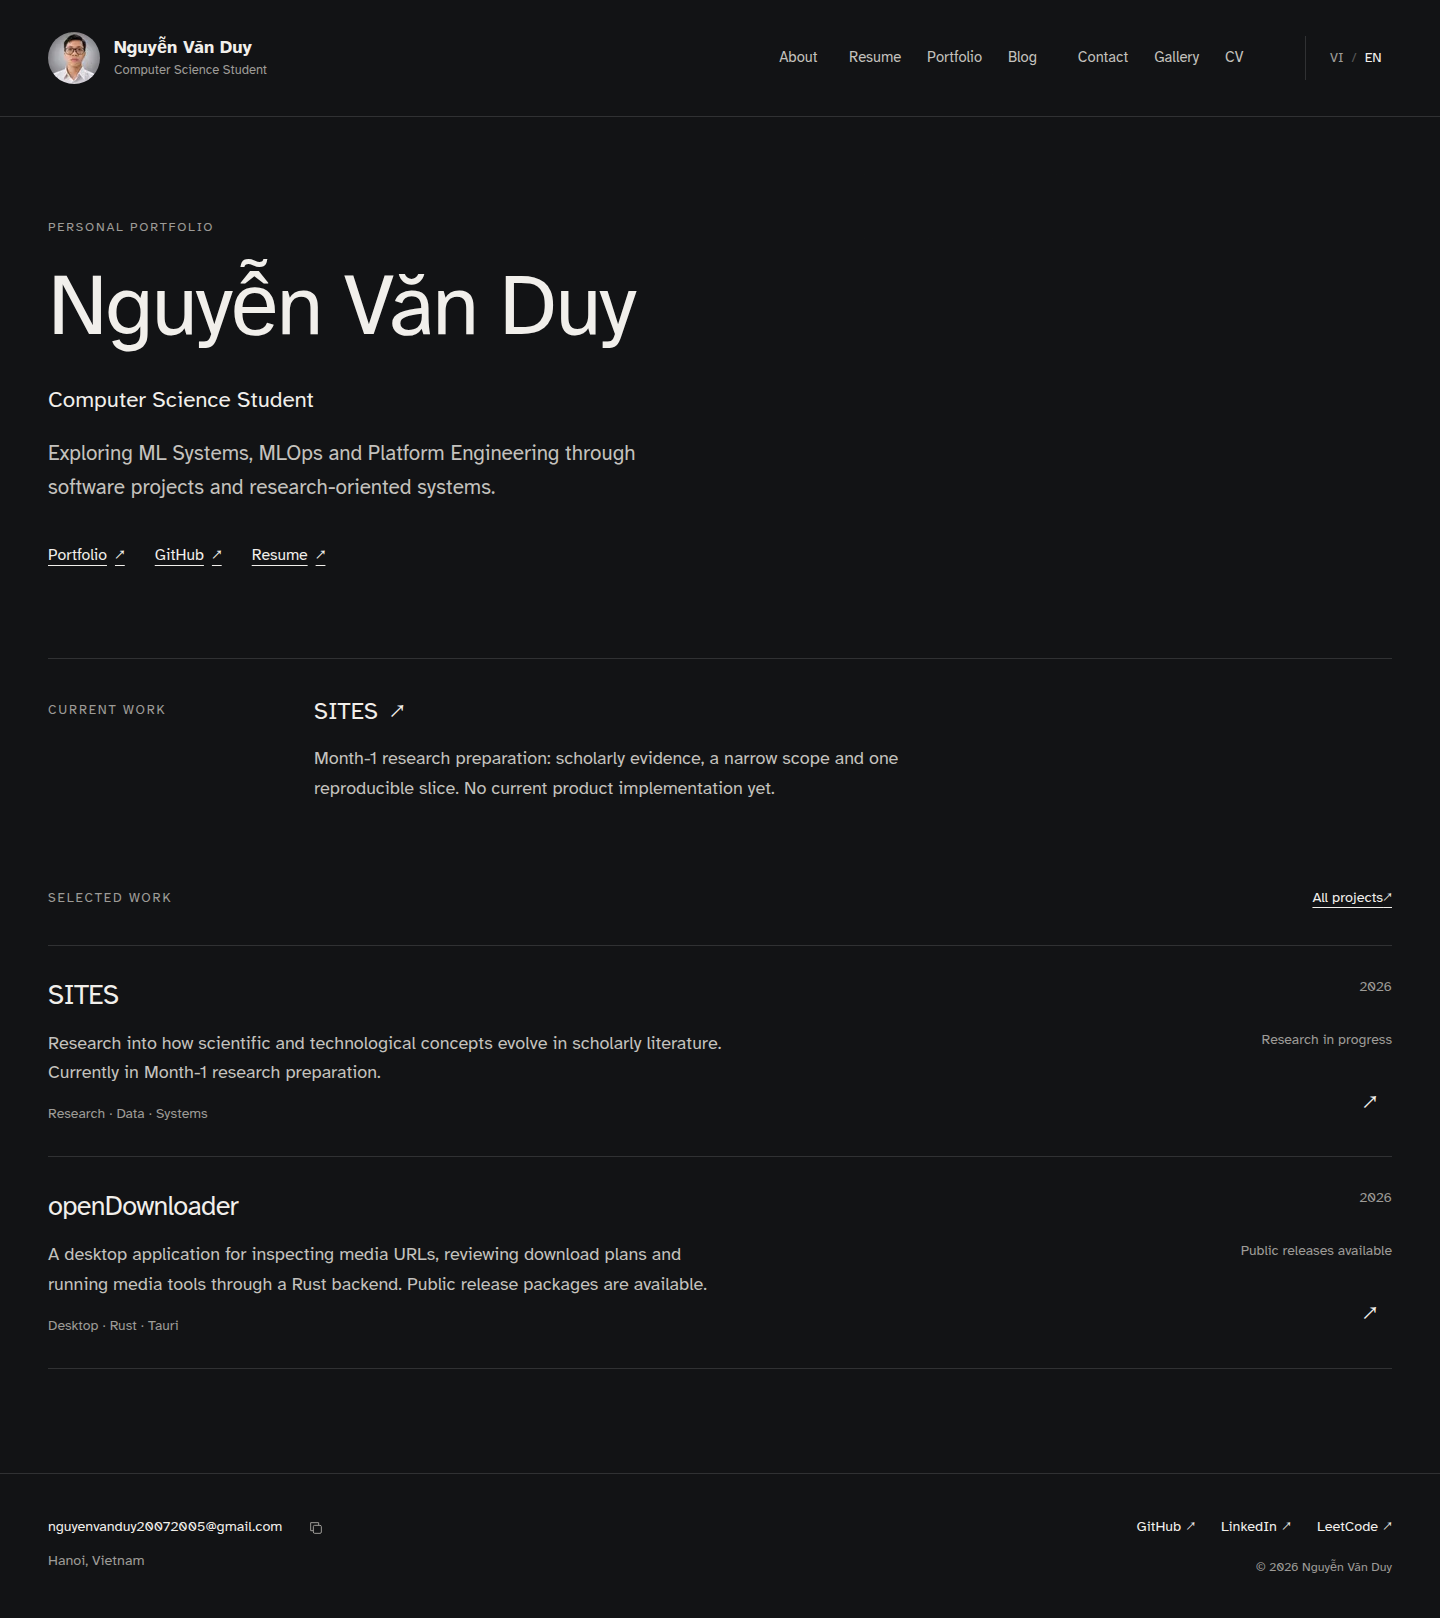
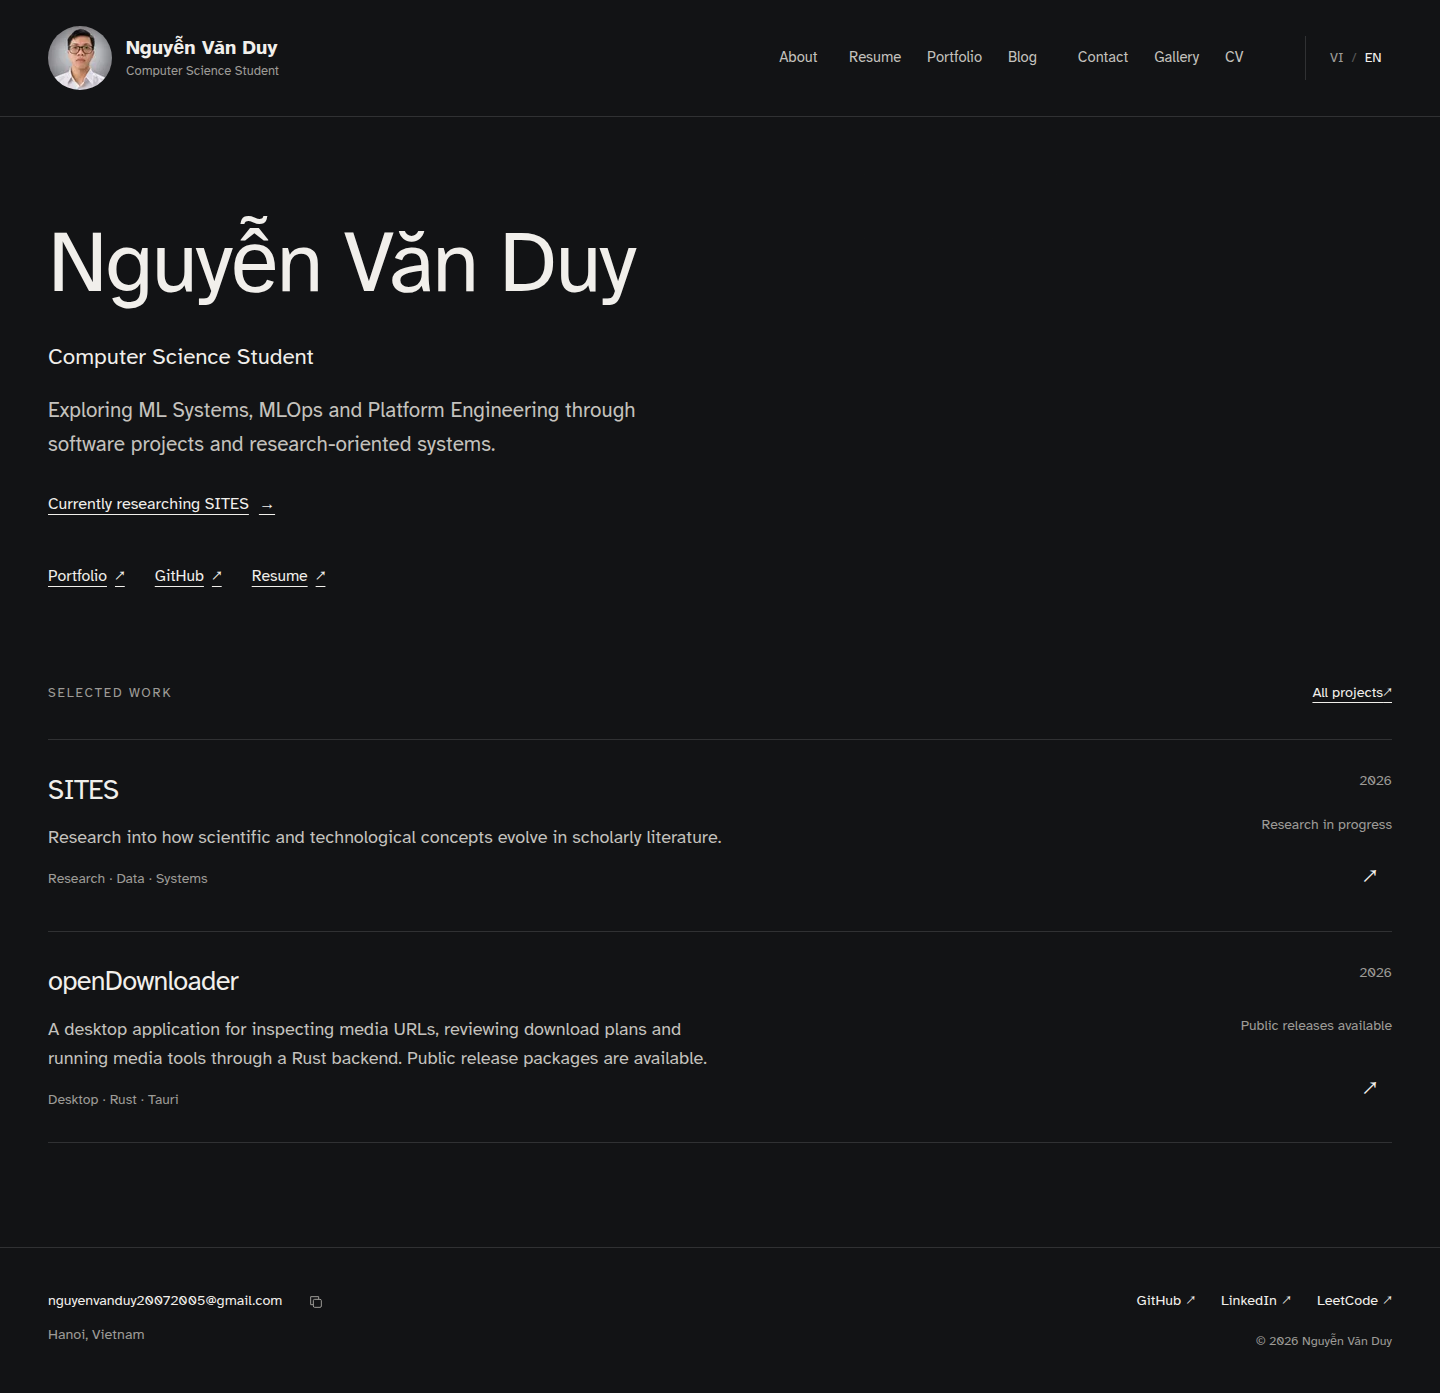
fix: polish editorial portfolio and enforce publication checks in CI

diff --git a/src/styles/global.css b/src/styles/global.css
@@ -9,6 +9,8 @@
 }
 *, *::before, *::after { box-sizing: border-box; }
 [hidden] { display: none !important; }
+/* Locale is selected in the head before body copy can paint, including without JS. */
+html[lang="vi"] [data-copy-lang="en"], html[lang="en"] [data-copy-lang="vi"] { display: none !important; }
 html { scroll-behavior: smooth; scroll-padding-top: 9rem; }
 body { margin: 0; min-height: 100vh; display: flex; flex-direction: column; background: var(--bg); color: var(--body); line-height: 1.65; }
 body::before { content: ''; position: absolute; top: 110px; right: 0; width: min(40vw, 600px); height: 450px; background-image: linear-gradient(#ffffff03 1px, transparent 1px), linear-gradient(90deg, #ffffff03 1px, transparent 1px); background-size: 64px 64px; mask-image: linear-gradient(150deg, #0006, transparent 75%); pointer-events: none; z-index: -1; }
@@ -22,9 +24,9 @@ button { color: var(--text); cursor: pointer; }
 .site-header { border-bottom: 1px solid var(--line); background: var(--bg); position: sticky; top: 0; z-index: 20; }
 .header-inner { display: grid; grid-template-columns: auto 1fr auto; align-items: center; gap: 36px; min-height: 116px; }
 .identity { display: flex; align-items: center; gap: 14px; text-decoration: none; min-width: 0; }
-.avatar { width: 52px; height: 52px; object-fit: cover; object-position: center top; border-radius: 50%; flex: 0 0 auto; }
+.avatar { width: 64px; height: 64px; object-fit: cover; object-position: center top; border-radius: 50%; flex: 0 0 auto; }
 .identity-copy { display: grid; line-height: 1.4; }
-.identity-copy strong { font-size: 1rem; font-weight: 700; color: var(--text); }
+.identity-copy strong { font-size: 1.1rem; font-weight: 700; color: var(--text); }
 .identity-copy > span { font-size: .72rem; color: var(--muted); }
 .primary-nav { grid-column: 2; grid-row: 1; display: flex; justify-content: flex-end; align-items: center; gap: clamp(16px, 1.8vw, 30px); }
 .primary-nav a { display: flex; align-items: center; min-height: 44px; min-width: 44px; text-decoration: none; font-size: .82rem; white-space: nowrap; position: relative; color: var(--body); }

diff --git a/src/data/site.ts b/src/data/site.ts
@@ -1,3 +1,4 @@
+import { publicProfile } from './profile.js';
 import profilePhoto from '../assets/selfie/toi.png';
 import gallery01 from '../assets/img/IMG_20240927_082039_070.jpg';
 import gallery02 from '../assets/img/IMG_20241111_143050_109.jpg';
@@ -7,8 +8,7 @@ import gallery05 from '../assets/img/IMG_20241203_093918_015.jpg';
 import gallery06 from '../assets/img/IMG_20241203_103715_582.jpg';
 
 export const profile = {
-  name: 'Nguyễn Văn Duy', role: 'Computer Science Student',
-  email: 'nguyenvanduy20072005@gmail.com',
+  ...publicProfile,
   location: { vi: 'Hà Nội, Việt Nam', en: 'Hanoi, Vietnam' }, photo: profilePhoto,
 };
 export const navItems = [

diff --git a/src/data/profile.js b/src/data/profile.js
@@ -1,0 +1,6 @@
+// Owner-confirmed public identity, shared by pages and validation.
+export const publicProfile = {
+  name: 'Nguyễn Văn Duy',
+  role: 'Computer Science Student',
+  email: 'nguyenvanduy20072005@gmail.com',
+};

diff --git a/docs/design/DECISIONS.md b/docs/design/DECISIONS.md
@@ -23,13 +23,13 @@
   Their existing detail URLs receive a factual archive notice with no stale
   capability claims. Withdrawn generated article URLs receive a noindex notice;
   neither notices nor removed writing appear in RSS/sitemap.
-- No bilingual URL migration: Vietnamese static HTML plus one storage-backed
-  locale controller updates visible copy, document language and metadata.
-  Canonical URLs do not change. No framework/runtime dependency is added.
-- PDF CV remains byte-for-byte unchanged. It currently states graduation 2027;
-  the newer owner brief says expected 2028. The HTML therefore records the
-  supported start date as 2023–present, without asserting a disputed graduation
-  year. The owner can confirm the expected year separately; the PDF is not edited.
+- Owner confirmed Vietnamese static default during review. No bilingual URL
+  migration: a small head bootstrap restores the saved locale and metadata
+  before body copy paints; CSS chooses the visible language immediately. One
+  storage-backed controller handles subsequent switches and utilities.
+- Owner confirmed expected graduation 2028. HTML Resume states this explicitly.
+  The owner will update the PDF later; both existing PDF copies remain unchanged
+  and currently state 2027. PDF/HTML agreement remains a pre-release owner task.
 - A temporary publication test using shared node_modules exposed Astro's empty
   glob behavior: the loader returns without clearing stored entries. The new
   writing loader explicitly clears an empty collection, and cacheDir is local to
@@ -40,3 +40,18 @@
   remaining assets because CV preservation is required. Both PDF copies and the
   remaining assets are preserved; only references actually used enter the page
   bundles. Public/source PDFs were compared against Git and are byte-identical.
+- Bounded review polish: current focus is one hero link; Selected Work contains
+  one listing each for SITES/openDownloader. Public SITES summary omits internal
+  Month-1 wording; research gates remain in the detailed case study. Desktop
+  avatar is 64px with a slightly larger name; compact mobile identity is retained.
+- Social preview is a 1200×630 PNG exported from the original local SVG. Metadata
+  includes PNG MIME type and dimensions; no reference assets were introduced.
+- Publication regression runs in CI after verify. Contact/identity validation
+  imports the same public profile as pages; career wording in an owner article
+  is permitted. Markdown/MDX case-study body migration is deferred until richer
+  owner-authored content warrants it; no schema migration in this polish.
+- Dependency audit triage confirms the same nine affected packages. This site
+  deploys static files, not a Node server or runtime image-optimization endpoint.
+  Build tooling remains affected (Astro, sharp and transitive parsing/processing
+  libraries); static deployment does not resolve those advisories. Package/lock
+  upgrades are separate follow-up work, not silently combined with this polish.

diff --git a/docs/design/REVIEW.md b/docs/design/REVIEW.md
@@ -25,8 +25,17 @@ machine-readable results are local review artifacts in `/tmp/portfolio-review`.
 - Publication regression: isolated 7-project/9-post fixture passes pagination;
   generated, draft and unclassified posts do not publish. Removing the final
   post with warm cache clears stored writing, generated routes and RSS.
-- No package/lockfile or deploy-workflow change. Approximately 3KB of homepage
-  client JS; local font and responsive WebP images, no framework hydration.
+- Review polish: npm scripts/CI now run publication regression after verify;
+  package dependencies and lockfile remain unchanged. The profile contract is
+  shared with validators, and a valid article may discuss an MLOps Engineer.
+- A returning EN visitor shows EN copy/metadata with all module scripts removed
+  and external JS blocked: the head bootstrap runs before body content. No-JS
+  still renders static VI and accessible navigation.
+- Social preview: original SVG exported to PNG, verified 1200×630; OG/Twitter
+  metadata points to the PNG. Desktop avatar is 64px; mobile remains compact.
+- Homepage now has current-focus hero link and one Selected Work list. Internal
+  Month-1 terminology stays in the case study. No framework hydration or new
+  runtime dependency.
 
 ## Remaining boundaries
 
@@ -36,8 +45,12 @@ are selected client-side; Vietnamese remains static default without URL migratio
 The existing dependency lockfile reports 9 advisories; upgrades are separate work.
 
 OWNER MUST WRITE: genuine future articles and optional personal narrative.
-Graduation confirmation remains with the owner: old PDF says 2027, newer brief
-says 2028; HTML currently states 2023–present. PDF content is unchanged.
+Owner confirmed expected graduation 2028; HTML Resume is updated. The owner
+will edit the PDF later; the preserved document still says 2027 and must be
+synchronized before public release.
 
 No merge, deployment, DNS change or destructive remote operation is part of this
-redesign. Only the redesign branch is pushed once after successful validation.
+redesign. Only the redesign branch is pushed once after successful validation in each
+authorized implementation batch. Review requests a draft PR to main for a
+clean-checkout CI run; PR checks do not deploy. Remote CI results are reported
+with the PR, separately from the local evidence documented here.

diff --git a/README.md b/README.md
@@ -7,7 +7,7 @@ software projects, resume, owner-written notes, photographs and contact.
 npm ci
 npm run dev
 npm run verify
-node scripts/test-publication.mjs
+npm run test:publication
 ```
 
 `verify` builds the site and checks generated routes, links, landmarks, content
@@ -26,12 +26,14 @@ withdrawn article and archived project addresses have noindex notices and are
 excluded from RSS/sitemap.
 
 Vietnamese is the static default. The language utility updates visible copy,
-document language and metadata without changing canonical URLs. Browser checks
+document language and metadata without changing canonical URLs. A small head
+bootstrap restores saved English before body copy paints. Browser checks
 can be run with `node scripts/review-browser.mjs` when Playwright and Chrome are
 available externally; no browser dependency is included in production.
 For example: `PORTFOLIO_PLAYWRIGHT_PATH=/tmp/portfolio-browser/node_modules/playwright node scripts/review-browser.mjs`.
 The publication regression test uses an isolated temporary copy and checks
-owner/draft exclusion, pagination and last-post removal with a populated cache.
+owner/draft exclusion, pagination and last-post removal with a populated cache;
+it runs as a separate CI step after build validation.
 
 GitHub Pages publishing remains managed by the existing quality-gated workflow.
 The redesign branch is reviewed without merging or deploying.

diff --git a/src/content/projects/sites.md b/src/content/projects/sites.md
@@ -14,8 +14,8 @@
     "en": "Research · Data · Systems"
   },
   "summary": {
-    "vi": "Nghiên cứu sự thay đổi của khái niệm khoa học và công nghệ qua tài liệu học thuật. Hiện ở giai đoạn chuẩn bị nghiên cứu Month-1.",
-    "en": "Research into how scientific and technological concepts evolve in scholarly literature. Currently in Month-1 research preparation."
+    "vi": "Nghiên cứu sự thay đổi của khái niệm khoa học và công nghệ qua tài liệu học thuật.",
+    "en": "Research into how scientific and technological concepts evolve in scholarly literature."
   },
   "stack": [
     "Research protocols",

diff --git a/docs/design/RESPONSIVE.md b/docs/design/RESPONSIVE.md
@@ -1,6 +1,6 @@
 # Responsive contract
 
-- 1200px and above: avatar/identity, seven text links and locale share one row.
+- 1200px and above: 64px avatar/identity, seven text links and locale share one row.
 - 768–1199px: identity/locale first row, navigation on a deliberate second row.
 - Below 768px: compact identity, locale and Menu; expanded links form a list.
 - Without JavaScript all navigation remains visible. Hidden links are removed
